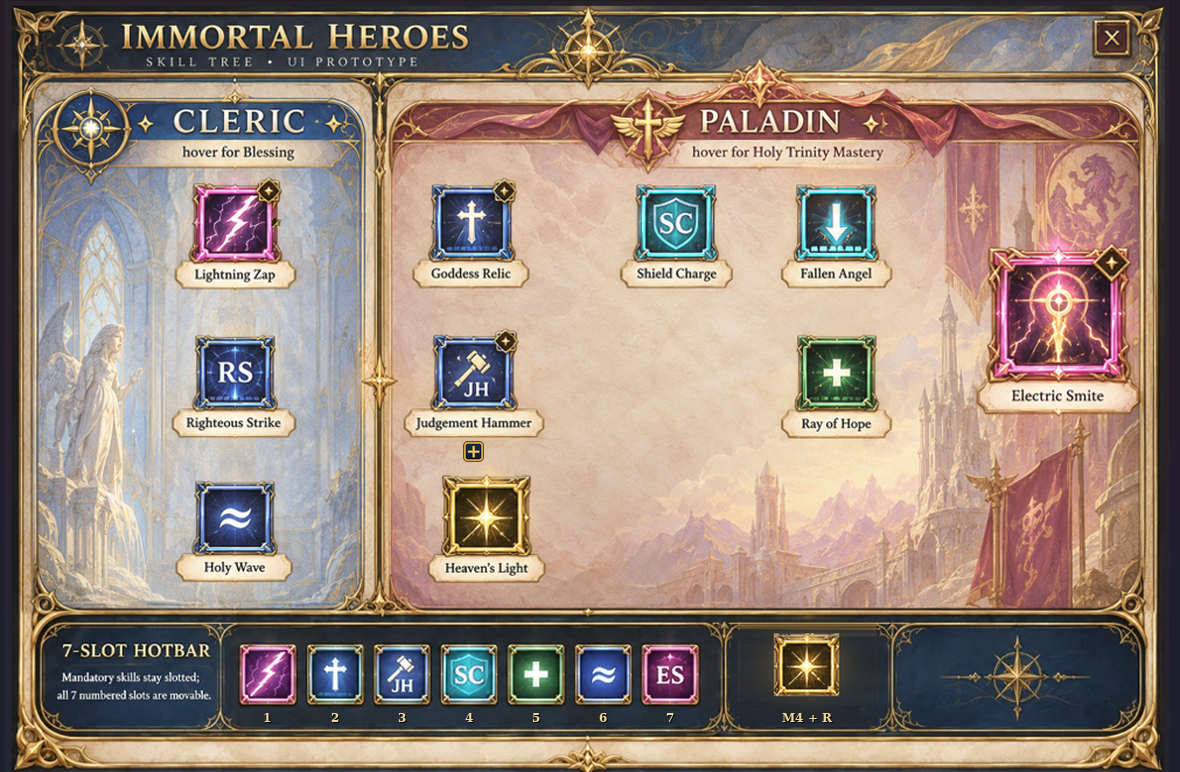
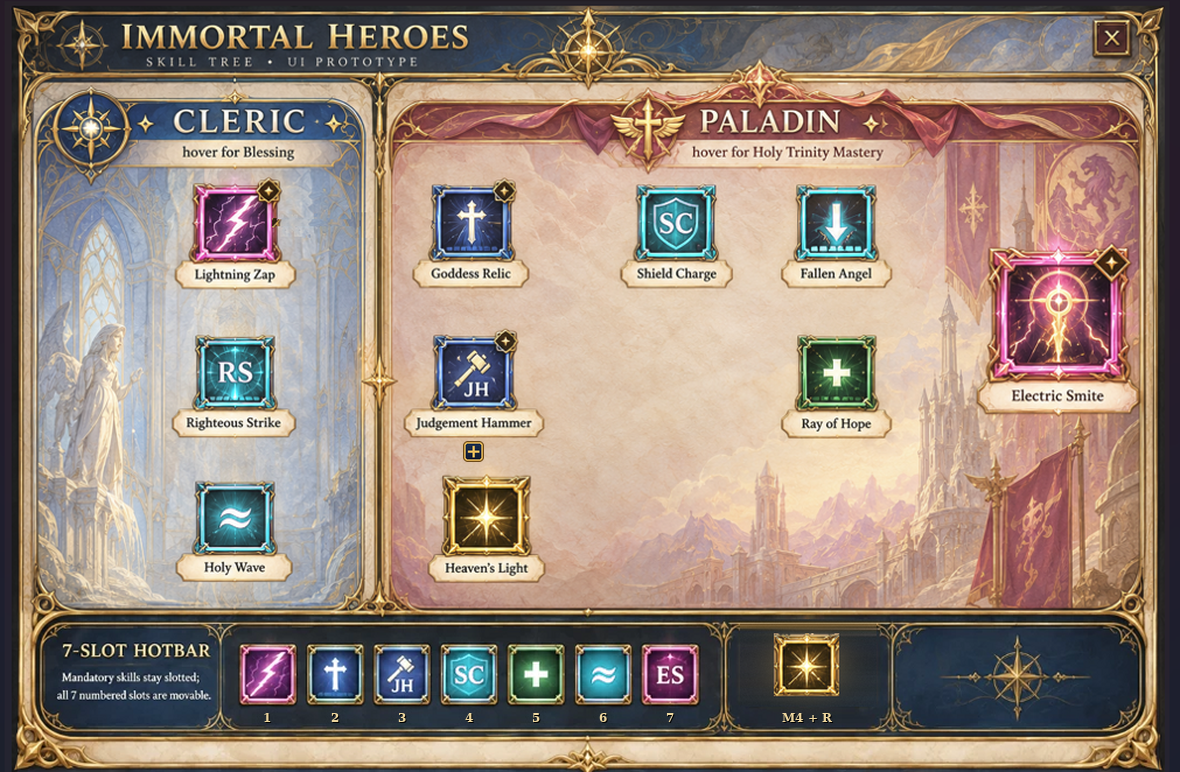
v0.15.2: Class normal skills (Righteous Strike, Holy Wave) cyan
Normal = interchangeable skills are cyan for Class and AC alike.

Claude-Session: https://claude.ai/code/session_01XpdCpqX2P5cHTKtzw8jsN7

Changed region(s): [[0.1525, 0.6218, 0.2441, 0.715], [0.1525, 0.4352, 0.2441, 0.5285], [0.4881, 0.8394, 0.5492, 0.9016]]

diff --git a/tools/build_ui_assets.py b/tools/build_ui_assets.py
@@ -35,12 +35,16 @@ GRACE_BOTTOM = 597   # bottoms align with the numbered slots
 HOTBAR_CENTERS = (229, 287, 344, 402, 459, 517, 574)  # numbered slot centers (reference px)
 
 
-# v0.15.1: AC normal skills are Cyan (Signature skills keep the navy/blue frame).
+# v0.15.1/v0.15.2: normal (interchangeable) skills are Cyan, Class and AC alike.
+# Signature skills keep the navy/blue frame; Ascended stays magenta.
 # Boxes in reference px: tree nodes + their numbered hotbar slots.
 CYAN_RECOLOR_BOXES = (
     (544, 154, 621, 235),   # Shield Charge (tree)
     (682, 154, 760, 235),   # Fallen Angel (tree)
     (376, 546, 428, 600),   # Shield Charge (hotbar slot 4)
+    (166, 286, 238, 353),   # Righteous Strike (tree) - Class normal = interchangeable = Cyan
+    (166, 410, 238, 478),   # Holy Wave (tree)
+    (491, 546, 543, 600),   # Holy Wave (hotbar slot 6)
 )
 CYAN_HUE = 186.0
 

diff --git a/AlbedosCustomClasses.Skills.cs b/AlbedosCustomClasses.Skills.cs
@@ -181,7 +181,7 @@ namespace AlbedosCustomClassesSkills
         public static SkillsPlugin Instance;
         public const string ModGuid = "albedo.customclasses.skills";
         public const string ModName = "Dragon's Altar - Starter Skills";
-        public const string ModVersion = "0.15.1";
+        public const string ModVersion = "0.15.2";
 
         private const string ClassDataKey = "AlbedoCustomClasses.Class";
         private const string WarriorRunBonusKey = "AlbedoCustomClasses.WarriorRunBonus";

diff --git a/DragonsAltar.Sorcerer.cs b/DragonsAltar.Sorcerer.cs
@@ -165,7 +165,7 @@ namespace DragonsAltarSorcerer
     {
         public const string ModGuid = "albedo.customclasses.sorcerer";
         public const string ModName = "Dragon's Altar - Sorcerer Advancements";
-        public const string ModVersion = "0.15.1";
+        public const string ModVersion = "0.15.2";
 
         private const string ClassDataKey = "AlbedoCustomClasses.Class";
         private const string AdvancementDataKey = "AlbedoCustomClasses.Advancement";

diff --git a/AlbedosCustomClasses.Advanced.cs b/AlbedosCustomClasses.Advanced.cs
@@ -116,7 +116,7 @@ namespace AlbedosCustomClassesAdvanced
     {
         public const string ModGuid = "albedo.customclasses.advanced";
         public const string ModName = "Dragon's Altar - Advancements";
-        public const string ModVersion = "0.15.1";
+        public const string ModVersion = "0.15.2";
 
         private const string ClassDataKey = "AlbedoCustomClasses.Class";
         private const string AdvancementDataKey = "AlbedoCustomClasses.Advancement";

diff --git a/AlbedosCustomClasses.Core.cs b/AlbedosCustomClasses.Core.cs
@@ -17,7 +17,7 @@ namespace AlbedosCustomClasses
     {
         public const string ModGuid = "albedo.customclasses";
         public const string ModName = "Dragon's Altar";
-        public const string ModVersion = "0.15.1";
+        public const string ModVersion = "0.15.2";
 
         internal const string ClassDataKey = "AlbedoCustomClasses.Class";
         internal const string AdvancementDataKey = "AlbedoCustomClasses.Advancement";

diff --git a/AlbedosCustomClasses.GuardianAngel.cs b/AlbedosCustomClasses.GuardianAngel.cs
@@ -17,7 +17,7 @@ namespace AlbedosCustomClassesGuardian
     {
         public const string ModGuid = "albedo.customclasses.guardian";
         public const string ModName = "Dragon's Altar - Grand Sigil Survival";
-        public const string ModVersion = "0.15.1";
+        public const string ModVersion = "0.15.2";
 
         private const string AdvancementDataKey = "AlbedoCustomClasses.Advancement";
 

diff --git a/AlbedosCustomClasses.Passives.cs b/AlbedosCustomClasses.Passives.cs
@@ -9,7 +9,7 @@ namespace AlbedosCustomClassesPassives
     {
         public const string ModGuid = "albedo.customclasses.passives";
         public const string ModName = "Dragon's Altar - Base Blessings Compatibility";
-        public const string ModVersion = "0.15.1";
+        public const string ModVersion = "0.15.2";
 
         private void Awake()
         {

diff --git a/DragonsAltar.CombatRuntime.cs b/DragonsAltar.CombatRuntime.cs
@@ -15,7 +15,7 @@ namespace DragonsAltarCombat
     {
         public const string ModGuid = "albedo.customclasses.combatruntime";
         public const string ModName = "Dragon's Altar - Combat Runtime";
-        public const string ModVersion = "0.15.1";
+        public const string ModVersion = "0.15.2";
 
         internal static DragonCombatPlugin Instance;
 

diff --git a/DragonsAltar.DevTools.cs b/DragonsAltar.DevTools.cs
@@ -31,7 +31,7 @@ namespace DragonsAltarDevTools
     {
         public const string ModGuid = "albedo.customclasses.devtools";
         public const string ModName = "Dragon's Altar - Developer Tools";
-        public const string ModVersion = "0.15.1";
+        public const string ModVersion = "0.15.2";
 
         public static DeveloperToolsPlugin Instance;
 

diff --git a/CLAUDE.md b/CLAUDE.md
@@ -3,7 +3,7 @@
 ## Working rules
 - User wants short responses and real execution, not long explanations.
 - **RUSH B** = immediately code the obvious requested task, minimal commentary, use latest approved build as baseline, don't redesign unrelated things, verify and package.
-- Latest package: **v0.15.1 — Cyan AC Skills + No Ghost Border + Single/Combo Keys**. Recent work is almost entirely UI polish; do NOT change combat/progression logic unless explicitly requested.
+- Latest package: **v0.15.2 — Cyan Normal Skills (Class + AC)**. Recent work is almost entirely UI polish; do NOT change combat/progression logic unless explicitly requested.
 - Never patch visual problems by drawing random rectangles over the reference asset. Keep approved artwork intact; make layout/components fit properly.
 
 ## Core philosophy
@@ -60,7 +60,7 @@
   - Class: Lightning Zap, Righteous Strike, Holy Wave.
   - Paladin: Goddess Relic, Judgement Hammer, Shield Charge, Fallen Angel, Ray of Hope, Electric Smite (Ultimate).
   - Grace: Heaven's Light.
-- Node colors: Class normal Blue · AC normal Cyan · Buff Green · Signature Navy · Ascended Magenta · Ultimate Pastel Maroon · Ascended Ultimate Red · Grace Yellow/Gold.
+- Node colors: Normal = interchangeable skills (Class AND AC) Cyan — before Advancement all 3 Class skills are Cyan · Buff Green (e.g. Ray of Hope) · Signature Navy · Ascended Magenta · Ultimate Pastel Maroon · Ascended Ultimate Red · Grace Yellow/Gold.
 - Prestige: Ultimate > Ascended > Signature > Normal > Buff; Grace unique. Ultimate node larger, Grace slightly larger.
 - Style: ornate gold high-fantasy frame, parchment; Cleric side blue sacred/cathedral, Paladin side warm rose/kingdom. Compact, airy node spacing.
 - Footer: one unified ornate footer. Left = "7-SLOT HOTBAR" info. Middle = slots 1–7 with hotkey numbers under each box. Grace = own gold box, "HEAVEN'S LIGHT" inside, `M4 + R` under the box (matching numbered slots). Far-right uses same ornate treatment — not a nested/flat/pasted blue rectangle. No Color Key.
